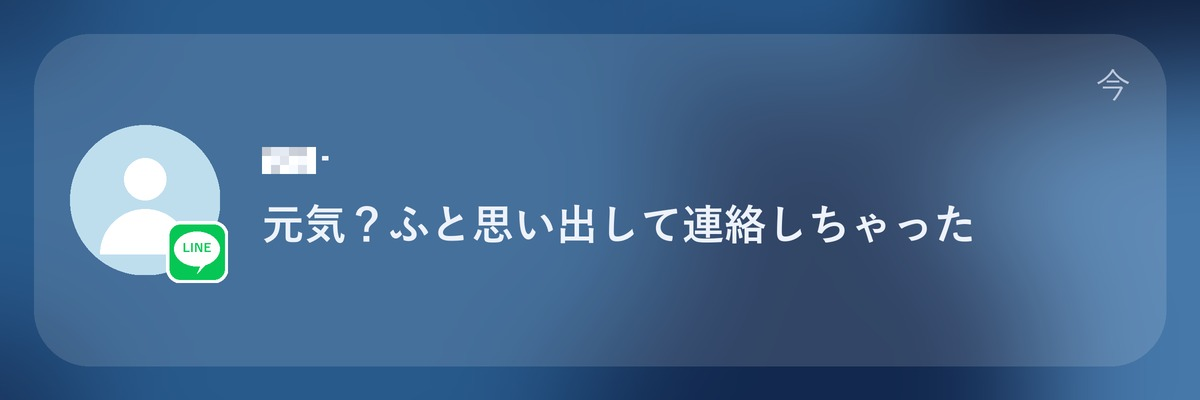
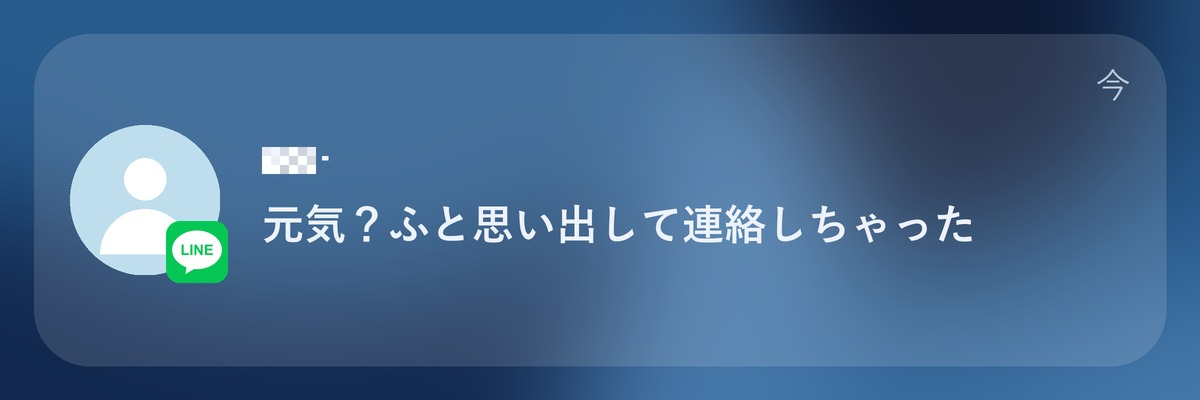
LINEのマークを本物と同じ形に（白いふちなし）

diff --git a/make_notify.py b/make_notify.py
@@ -35,6 +35,7 @@ def find_font(names):
 
 FONT_BOLD = find_font(["YuGothic-Bold.otf"])
 FONT_MED = find_font(["YuGothic-Medium.otf"])
+FONT_LATIN = "/System/Library/Fonts/Supplemental/Arial Bold.ttf"
 
 
 def background(colors, seed):
@@ -65,18 +66,24 @@ def avatar(size):
 
 
 def badge(size):
-    """緑の角丸の四角に、白い吹き出しと「LINE」の文字（LINEのアプリアイコン風）。"""
-    b = Image.new("RGBA", (size, size), (0, 0, 0, 0))
+    """LINEのアプリアイコンと同じ形：緑の角丸の四角に、白い吹き出しと緑の「LINE」。白いふちはなし。"""
+    k = 4  # 大きく描いてから縮めて、ふちをなめらかにする
+    S = size * k
+    b = Image.new("RGBA", (S, S), (0, 0, 0, 0))
     d = ImageDraw.Draw(b)
-    d.rounded_rectangle((0, 0, size, size), radius=int(size * 0.24), fill=(6, 199, 85, 255), outline=(255, 255, 255, 255), width=max(2, size // 16))
-    bw, bh = size * 0.74, size * 0.56
-    x0, y0 = (size - bw) / 2, size * 0.17
-    d.ellipse((x0, y0, x0 + bw, y0 + bh), fill=(255, 255, 255, 255))
-    d.polygon([(x0 + bw * 0.62, y0 + bh * 0.86), (x0 + bw * 0.50, y0 + bh * 1.22), (x0 + bw * 0.80, y0 + bh * 0.80)], fill=(255, 255, 255, 255))
-    f = ImageFont.truetype(FONT_BOLD, int(size * 0.20))
+    d.rounded_rectangle((0, 0, S, S), radius=int(S * 0.225), fill=(6, 199, 85, 255))
+    # 吹き出し：横長の楕円と、左下の小さなしっぽ
+    bw, bh = S * 0.80, S * 0.62
+    x0, y0 = (S - bw) / 2, S * 0.155
+    white = (255, 255, 255, 255)
+    d.ellipse((x0, y0, x0 + bw, y0 + bh), fill=white)
+    d.polygon([(x0 + bw * 0.30, y0 + bh * 0.86), (x0 + bw * 0.27, y0 + bh * 1.13), (x0 + bw * 0.50, y0 + bh * 0.95)], fill=white)
+    f = ImageFont.truetype(FONT_LATIN, int(S * 0.235))
     tw = f.getlength("LINE")
-    d.text(((size - tw) / 2, y0 + bh * 0.27), "LINE", font=f, fill=(6, 199, 85, 255))
-    return b
+    bbox = f.getbbox("LINE")
+    th = bbox[3] - bbox[1]
+    d.text(((S - tw) / 2, y0 + (bh - th) / 2 - bbox[1]), "LINE", font=f, fill=(6, 199, 85, 255))
+    return b.resize((size, size), Image.LANCZOS)
 
 
 def mosaic_name(draw_img, x, y, color, seed):
